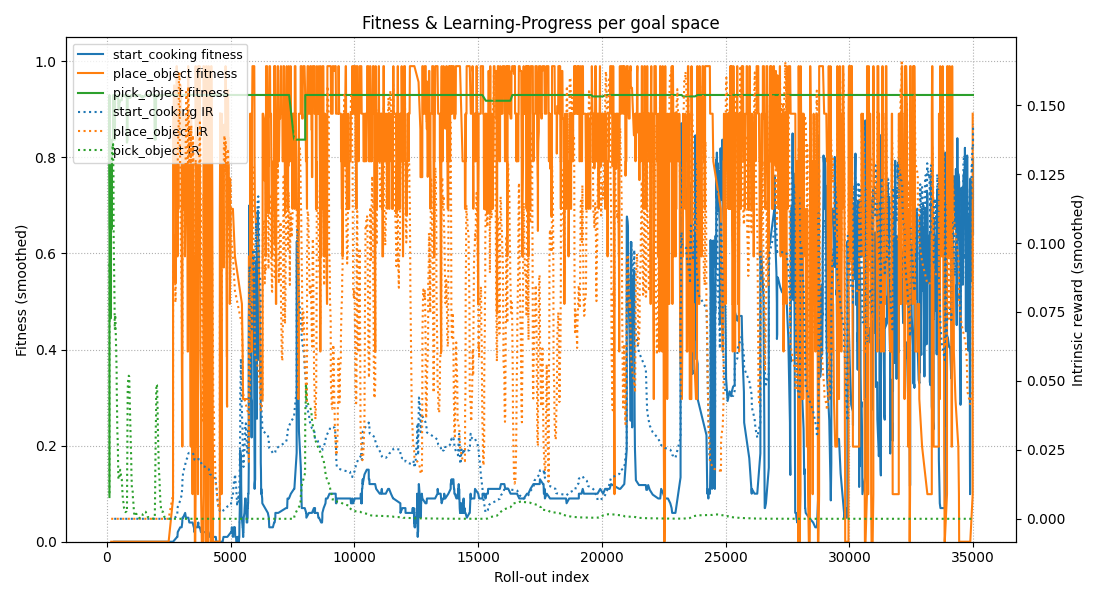
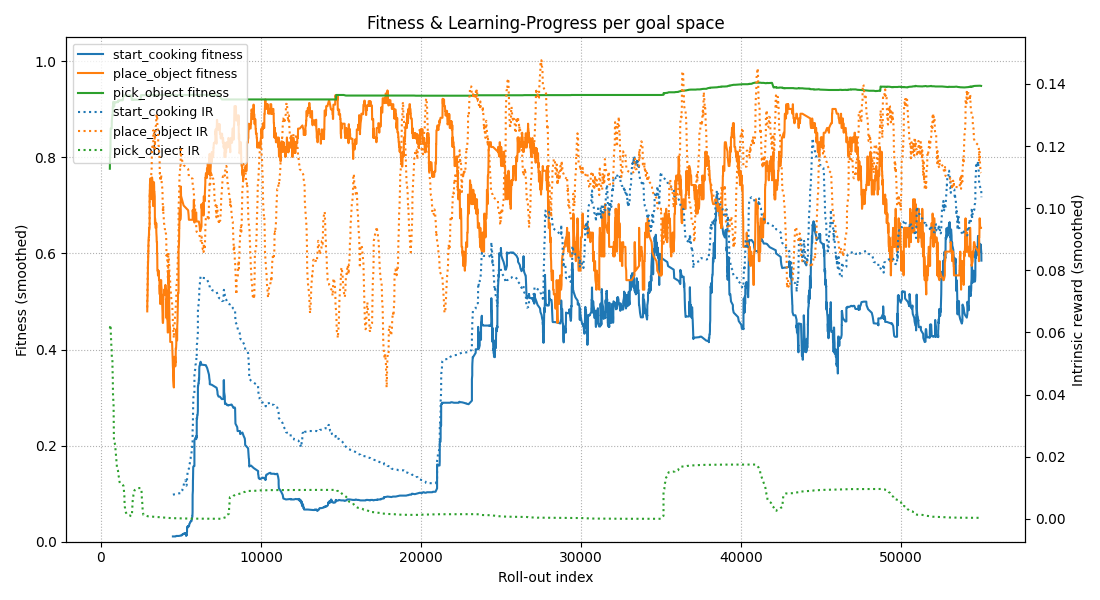
Reduce roll-outs for testing and increase plot resolution in visualisation

diff --git a/imrl_agent_new/visualise/stats/visualise.py b/imrl_agent_new/visualise/stats/visualise.py
@@ -145,8 +145,8 @@ def make_graphs():
         if os.path.exists(path):
             print(f"✅ Found {path}")
             records = load_records(path)
-            plot_fitness(records, f"visualise/stats/fitness_plot_{ag}.png", 10)
-            plot_goalspace_distribution(records, f"visualise/stats/goalspace_dist_{ag}.png", 10)
+            plot_fitness(records, f"visualise/stats/fitness_plot_{ag}.png", 100)
+            plot_goalspace_distribution(records, f"visualise/stats/goalspace_dist_{ag}.png", 100)
             get_statistics(path)
         else:
             print(f"❌ Could not find {path}")

diff --git a/imrl_agent_new/demo_eval.py b/imrl_agent_new/demo_eval.py
@@ -36,7 +36,7 @@ for ag in agents: ag.kb.load_buffer("kb/buffer_rollouts" + str(ag.agent_id) + ".
 # ---------------------------------------------------------------- run one roll-out
 state = env.reset()
 
-ROLL_OUTS = 20000
+ROLL_OUTS = 5
 
 scores, dishes, fitnesses, r_is = [], [], [], []
 
